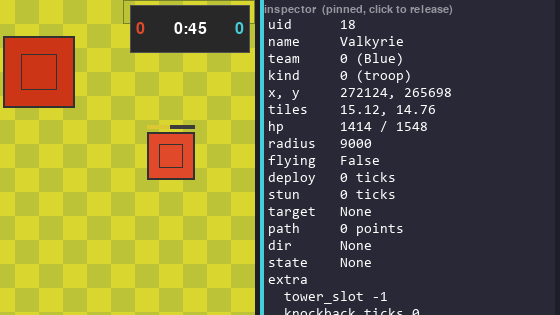
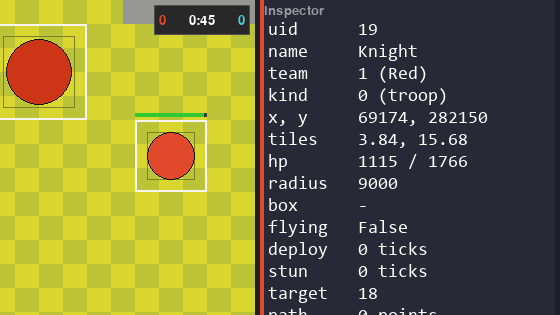
viser: media: tile-event-log, tile-inspector, tile-live-stream and viewer-learning are regenerable (make_tiles.py) and reshot on the current window; captions that quote them updated (Knight pinned, 21 fps)

diff --git a/docs/media/make_tiles.py b/docs/media/make_tiles.py
@@ -1,5 +1,5 @@
 #!/usr/bin/env python3
-"""The README's `tile-*.png` crops, from the recordings that ship with the tests.
+"""The guide's `tile-*.png` crops and `viewer-learning.png`, every one regenerable.
 
     ..\\..\\..\\.venv\\Scripts\\python docs\\media\\make_tiles.py            # every tile
     ..\\..\\..\\.venv\\Scripts\\python docs\\media\\make_tiles.py compare    # one of them
@@ -16,6 +16,18 @@ still shows what the window does.
 
 A tile is a CROP because the window is 1082 x 832 and a README thumbnail of the whole thing
 shows nothing. The crops are named regions rather than magic numbers: see `TILES`.
+
+Three more were hand-taken until 2026-10-01 and are made here now, on the current window:
+
+- `event-log` and `inspector` are crops of the window on the engine battle RoyaleGym's
+  `docs/media/make_media.py` records (the battle behind `engine-trace` and `viewer-trace.png`),
+  at the same tick with the same unit pinned. They need the engine, from the sibling checkouts.
+- `live-stream` and `learning` are the window ATTACHED over UDP: `tests/run_stream.py` streams
+  the scripted battle and a scripted learner's status, so nothing in them comes from a real
+  training run. `learning` is the whole window, written to `docs/viewer-learning.png`.
+
+A caption that quotes something drawn in one of these pictures (an fps, a unit's name) is
+updated in the same commit as the picture.
 """
 
 from __future__ import annotations
@@ -98,7 +110,85 @@ def paths_and_targets() -> None:
     crop(surf, (345, 225, 432, 243), HERE / "tile-paths-and-targets.png")
 
 
-TILES = {"compare": compare, "paths-and-targets": paths_and_targets}
+ENGINE_TICK = 900  # make_media's engine-trace tick: these tiles show the same moment
+
+
+def engine_window() -> tuple[pygame.Surface, str]:
+    """The window on make_media's engine battle at ENGINE_TICK with its first troop pinned,
+    exactly as ``engine_trace`` there pins it; and the pinned unit's name, for the caption."""
+    import importlib.util
+
+    path = REPO.parent / "RoyaleGym" / "docs" / "media" / "make_media.py"
+    if not path.exists():
+        raise SystemExit(f"the engine tiles need RoyaleGym beside this repo ({path})")
+    spec = importlib.util.spec_from_file_location("make_media", path)
+    make_media = importlib.util.module_from_spec(spec)
+    spec.loader.exec_module(make_media)
+    make_media.WORK = HERE / ".work"  # its recorded battle stays in this repo, gitignored
+    pygame.init()
+    src = make_media.trace()
+    src.seek(src.index_at_tick(ENGINE_TICK))
+    frame = src.frame()
+    troops = [u for u in frame.units if u.kind == 0]
+    pinned = troops[0] if troops else None
+    app = App([src], ViewState(seat=0, hover_uid=pinned.uid if pinned else None), scale=SCALE)
+    app.renderer.help_lines = KEYS
+    app.pull()
+    app.draw(0.0)
+    src.close()
+    return app.renderer.surface.copy(), pinned.name if pinned else ""
+
+
+def event_log() -> None:
+    """The event list: plays, spawns and deaths, with their tick and tile."""
+    surf, _ = engine_window()
+    crop(surf, EVENT_LOG_RECT, HERE / "tile-event-log.png")
+
+
+def inspector() -> None:
+    """Every raw field of the pinned unit."""
+    surf, name = engine_window()
+    crop(surf, INSPECTOR_RECT, HERE / "tile-inspector.png")
+    print(f"tile-inspector.png pins {name}")
+
+
+def stream_shot(to: Path) -> pygame.Surface:
+    """The whole window attached over UDP to run_stream's scripted publisher and learner."""
+    import run_stream
+
+    if run_stream.main(["--seconds", "6", "--shot", str(to)]) != 0:
+        raise SystemExit(f"run_stream wrote no picture to {to}")
+    return pygame.image.load(str(to))
+
+
+def live_stream() -> None:
+    """The window on a stream: LIVE, its frame rate, events arriving."""
+    tmp = HERE / ".live-stream-full.png"
+    try:
+        crop(stream_shot(tmp), LIVE_STREAM_RECT, HERE / "tile-live-stream.png")
+    finally:
+        tmp.unlink(missing_ok=True)
+
+
+def learning() -> None:
+    """The whole window with the learning panel filled by run_stream's scripted learner."""
+    stream_shot(REPO / "docs" / "viewer-learning.png")
+    print("viewer-learning.png: the whole window")
+
+
+# The crops, chosen on the 1082 x 832 window at scale 24 (theme.layout).
+EVENT_LOG_RECT = (0, 140, 480, 270)  # the status block and its events, and the board's edge
+INSPECTOR_RECT = (522, 5, 560, 315)  # the board's right half and the pinned unit's fields
+LIVE_STREAM_RECT = (0, 140, 480, 270)  # LIVE, the frame rate, the events, the board's edge
+
+TILES = {
+    "compare": compare,
+    "paths-and-targets": paths_and_targets,
+    "event-log": event_log,
+    "inspector": inspector,
+    "live-stream": live_stream,
+    "learning": learning,
+}
 
 
 def main(argv: list[str]) -> int:

diff --git a/docs/guide.md b/docs/guide.md
@@ -161,12 +161,12 @@ The seat, the window size, `--seconds`, `--shot` and the rest of the command lin
   <tr>
     <td width="33%" align="center"><img src="media/replay-scrubbed-4x.gif" width="100%" alt="The scripted battle that ships with the tests, replayed in the viewer"><br><b>Replay a recorded match</b><br><sub>Play, pause, step one frame, seek by clicking the bar. The clip is the scripted battle that ships with the tests, so its motion is scripted rather than played by the engine.</sub></td>
     <td width="33%" align="center"><img src="media/engine-trace.gif" width="100%" alt="An engine trace opened at tick 900, with a unit pinned in the inspector"><br><b>Open an engine trace</b><br><sub>A battle saved from the engine with one frame per tick. Open it at any tick you like.</sub></td>
-    <td width="33%" align="center"><img src="media/tile-live-stream.png" width="100%" alt="The viewer attached to a running training environment: LIVE, 31 fps, events arriving"><br><b>Watch a training run live</b><br><sub>Attach to a training run in another program. With nobody watching it costs that run 193 ns a step (2026-09-21).</sub></td>
+    <td width="33%" align="center"><img src="media/tile-live-stream.png" width="100%" alt="The viewer attached to a stream: live, 21 fps, events arriving"><br><b>Watch a training run live</b><br><sub>Attach to a training run in another program. With nobody watching it costs that run 193 ns a step (2026-09-21).</sub></td>
   </tr>
   <tr>
     <td width="33%" align="center"><img src="media/tile-compare.png" width="100%" alt="The compare panel at GAME OVER: 395 ticks compared, 0 differ"><br><b>Compare two recordings of one battle</b><br><sub>Two recordings of one battle should agree, and the viewer says so tick by tick. Here both players recorded the scripted battle that ships with the tests: 395 ticks compared, 0 differ.</sub></td>
     <td width="33%" align="center"><img src="media/compare-ghost.gif" width="100%" alt="Two recordings of one battle, the second drawn on the first as hollow ghosts"><br><b>See where they disagree</b><br><sub>The second source is drawn as hollow ghosts on the first. On a tick where they differ, the ghost steps off the unit. The two recordings in this clip are identical, so nothing steps off here.</sub></td>
-    <td width="33%" align="center"><img src="media/tile-inspector.png" width="100%" alt="The inspector listing every raw field of the pinned Valkyrie"><br><b>Inspect any unit</b><br><sub>Click a unit to list every field the source carries, raw and unrounded, except an effect's time left, which shows in tenths of a second.</sub></td>
+    <td width="33%" align="center"><img src="media/tile-inspector.png" width="100%" alt="The inspector listing every raw field of the pinned Knight"><br><b>Inspect any unit</b><br><sub>Click a unit to list every field the source carries, raw and unrounded, except an effect's time left, which shows in tenths of a second.</sub></td>
   </tr>
   <tr>
     <td width="33%" align="center"><img src="media/tile-event-log.png" width="100%" alt="The event log: plays, spawns and deaths with tick and tile"><br><b>Follow the event log</b><br><sub>Plays, spawns, deaths and tunnel trips (Miner, Goblin Drill), each with its tick and tile, newest last.</sub></td>

diff --git a/docs/media/README.md b/docs/media/README.md
@@ -35,8 +35,8 @@ so regenerating is a clean diff. See `docs/internals.md` for the function.
 | `live-training-env.png` | `make_media.py live-training-env` | A real environment in another process, streaming over UDP to the viewer. |
 | `tile-compare.png` | `make_tiles.py compare` | The compare panel at the end of the scripted battle, recorded from both seats: 395 ticks compared, 0 differ. |
 | `tile-paths-and-targets.png` | `make_tiles.py paths-and-targets` | A recorded unit's route and another's target line, at tick 162 of the scripted battle. |
-| `tile-event-log.png`, `tile-inspector.png` | screenshot of an engine trace | The event list, and every raw field of a pinned unit. |
-| `tile-live-stream.png` | screenshot of a running environment | The viewer attached over UDP while a training run plays. |
+| `tile-event-log.png`, `tile-inspector.png` | `make_tiles.py event-log inspector` (the engine-trace battle at tick 900) | The event list, and every raw field of a pinned unit. |
+| `tile-live-stream.png`, `../viewer-learning.png` | `make_tiles.py live-stream learning` (`tests/run_stream.py`) | The viewer attached over UDP to a scripted battle and a scripted learner. |
 | `tile-synthetic-battle.png` | `capture()` on the scripted battle (`tests/synthetic.py`), tick 1015, `crop="full"` | The whole window, rendered with no display. |
 | `family.svg` | hand-drawn | the Royale repos and how they depend on each other; final |
 
@@ -105,7 +105,8 @@ and `tile-paths-and-targets.png`. They were the only pictures here nobody else c
 reproduce, and the compare tile printed a recording's name on its own face. Both are now
 crops of the window on the committed recordings, made by `make_tiles.py`.
 
-The rest of the screenshots are pictures of the window taken by hand on a public battle. A
-generated picture is better, because a hand-taken one never updates when the window changes
-and nobody can diff it -- but what makes a picture publishable is where its BATTLE came from,
-not whether a script pressed the button.
+The other four hand-taken screenshots went the same way on 2026-10-01: `tile-event-log`,
+`tile-inspector`, `tile-live-stream` and `../viewer-learning.png` are made by `make_tiles.py`
+too, on the current window, so no picture here is taken by hand any more. A generated picture
+updates when the window changes and can be diffed; what makes it publishable is still where its
+BATTLE came from, not that a script pressed the button.
